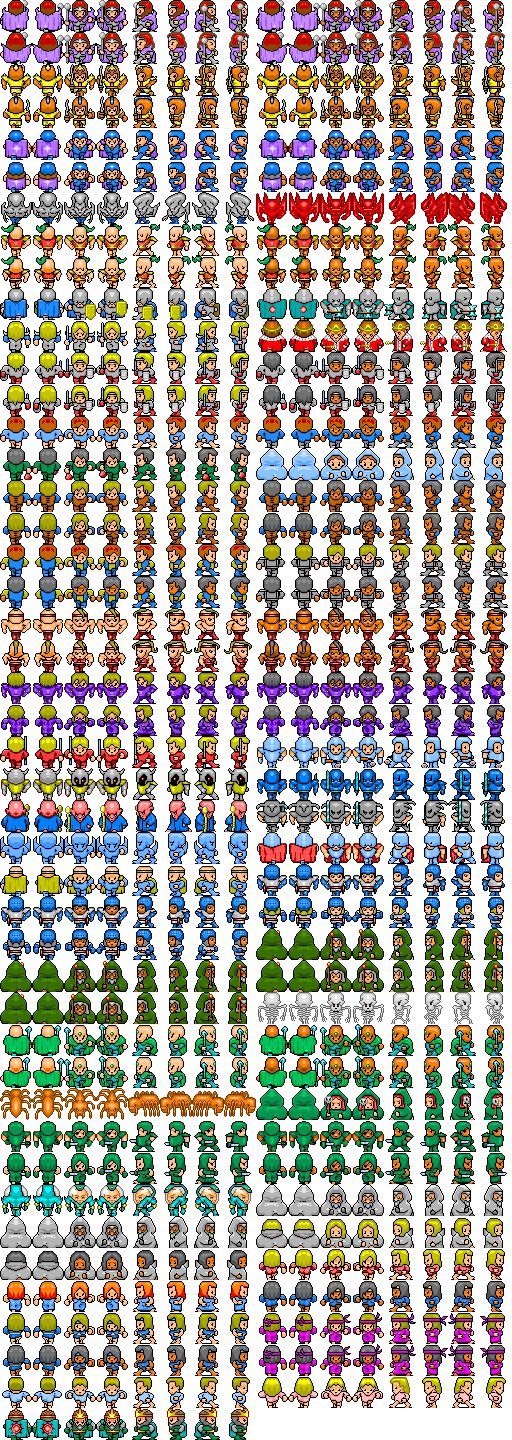
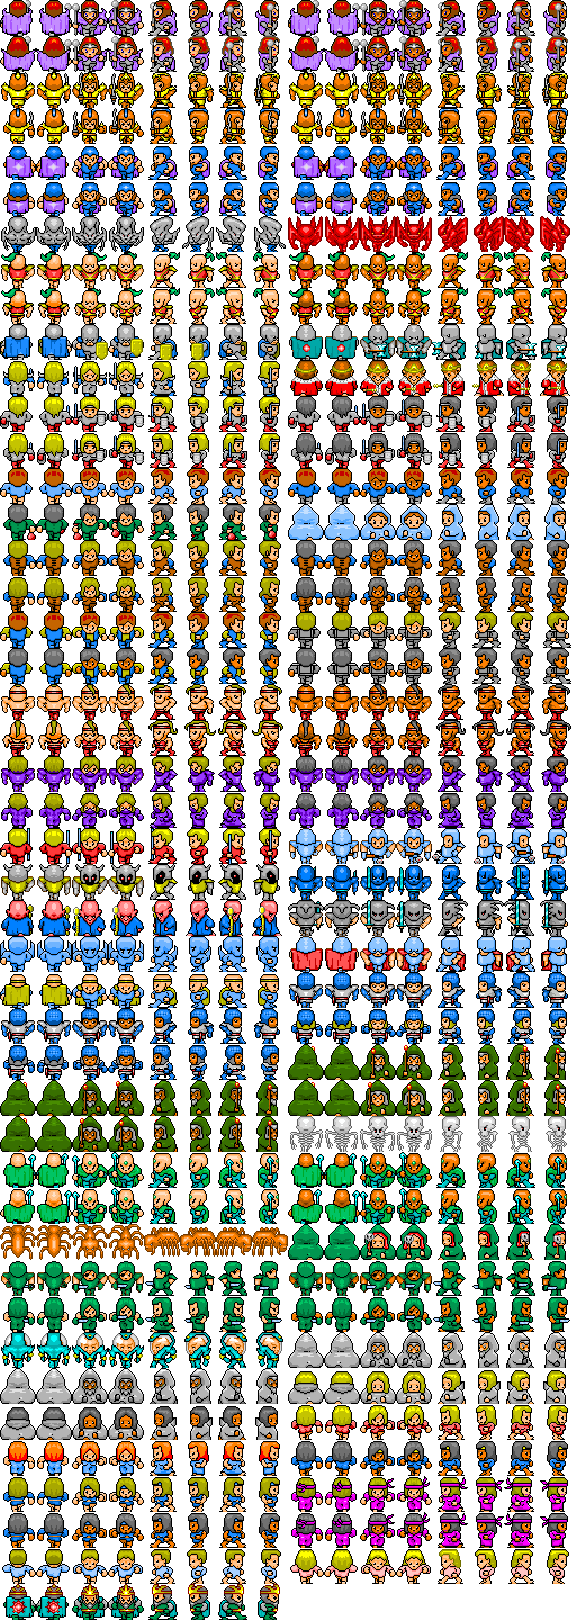
Fully move to bigger sprites

diff --git a/src/Game/Game.ts b/src/Game/Game.ts
@@ -8,7 +8,7 @@ import getRandomInt from './helpers/getRandomInt'
 import Collider from './Collider'
 import Wall from '../textures/Wall'
 import Floor from '../textures/Floor'
-import Level from './Level'
+import Level, { TILE_WIDTH, TILE_HEIGHT } from './Level'
 import stores from '../stores'
 import SkeletonContainer from './containers/SkeletonContainer'
 import WallContainer from './containers/WallContainer'
@@ -42,7 +42,8 @@ class Game {
 
     loader
       .add('spritesheet', './tileset.json')
-      .add('character_spritesheet', './character32.json')
+      .add('character_spritesheet', './character36.json')
+      .add('character_spritesheet2', './character32.json')
       .load(this.afterLoad)
   }
 
@@ -81,18 +82,26 @@ class Game {
 
         const collidable = tileType === 'wall'
 
-        const baseX = i * 64
-        const baseY = j * 64
+        const baseX = i * TILE_WIDTH * 2
+        const baseY = j * TILE_HEIGHT * 2
 
         for (let xOffset = 0; xOffset < 2; xOffset++) {
           for (let yOffset = 0; yOffset < 2; yOffset++) {
             const random = getRandomInt(5) + 1
             if (collidable) {
-              const container = new WallContainer(baseX + xOffset * 32, baseY + yOffset * 32, Wall[`wall${random}`])
+              const container = new WallContainer(
+                baseX + xOffset * TILE_WIDTH,
+                baseY + yOffset * TILE_HEIGHT,
+                Wall[`wall${random}`]
+              )
               stores.gameStateStore.viewport.addChild(container.sprite)
               stores.gameStateStore.cullMask.addObject(container.sprite, true, collidable)
             } else {
-              const container = new FloorContainer(baseX + xOffset * 32, baseY + yOffset * 32, Floor[`floor${random}`])
+              const container = new FloorContainer(
+                baseX + xOffset * TILE_WIDTH,
+                baseY + yOffset * TILE_HEIGHT,
+                Floor[`floor${random}`]
+              )
               stores.gameStateStore.viewport.addChild(container.sprite)
               stores.gameStateStore.cullMask.addObject(container.sprite, true, collidable)
             }
@@ -109,8 +118,8 @@ class Game {
       const tileType = this.level.tileAt({ x, y })
 
       if (tileType === 'floor') {
-        const skeletonX = x * 64 + 32
-        const skeletonY = y * 64 + 32
+        const skeletonX = x * (TILE_WIDTH * 2) + TILE_WIDTH
+        const skeletonY = y * (TILE_HEIGHT * 2) + TILE_HEIGHT
 
         if (!Array.from(stores.gameStateStore.steppables.entries()).find(
           ([item, _]) => item.sprite.x === skeletonX && item.sprite.y === skeletonY)
@@ -154,12 +163,13 @@ class Game {
 
   public afterLoad = () => {
     stores.gameStateStore.viewport = this.buildViewport()
-
     stores.gameStateStore.cullMask = new Cull()
-
     this.buildLevelContainer()
 
-    stores.gameStateStore.char = new CharacterContainer(240, 3020)
+    stores.gameStateStore.viewport.worldWidth = this.level.pixelWidth
+    stores.gameStateStore.viewport.worldHeight = this.level.pixelHeight
+
+    stores.gameStateStore.char = new CharacterContainer(270, 3402)
     stores.gameStateStore.steppables.add(stores.gameStateStore.char)
 
     stores.gameStateStore.viewport.addChild(stores.gameStateStore.char.sprite)

diff --git a/src/textures/Character.ts b/src/textures/Character.ts
@@ -10,19 +10,19 @@ class Character extends TextureCache {
 
   static get cDown() {
     return this._lookup('cDown', () =>
-      this._characterFrames(this._rowOffset + 1, this._colOffset + 3)
+      this._characterFrames(this._rowOffset + 3, this._colOffset + 1)
     )
   }
 
   static get cLeft() {
     return this._lookup('cLeft', () =>
-      this._characterFrames(this._rowOffset + 1, this._colOffset + 5)
+      this._characterFrames(this._rowOffset + 4, this._colOffset + 1)
     )
   }
 
   static get cRight() {
     return this._lookup('cRight', () =>
-      this._characterFrames(this._rowOffset + 1, this._colOffset + 7)
+      this._characterFrames(this._rowOffset + 2, this._colOffset + 1)
     )
   }
 
@@ -31,11 +31,11 @@ class Character extends TextureCache {
   public static _characterFrames = (
     row: number,
     keyframe: number,
-    keyframes: number = 2
+    keyframes: number = 3
   ) => {
     const frames = []
     for (let i = 0; i < keyframes; i++) {
-      frames.push(Texture.from(`c_r${row}c${i + keyframe}.png`))
+      frames.push(Texture.from(`q_r${row}c${i + keyframe}.png`))
     }
     return frames
   }

diff --git a/src/game/containers/SkeletonContainer.ts b/src/game/containers/SkeletonContainer.ts
@@ -8,6 +8,7 @@ import { AnimatableContainer } from './AnimatableContainer'
 import TextureCache from '../../textures/TextureCache'
 import withHp, { IWithHp } from '../decorators/withHp'
 import withLighting from '../decorators/withLighting'
+import { TILE_WIDTH, TILE_HEIGHT } from '../Level';
 
 @withLighting(true)
 @withHp(10)
@@ -17,7 +18,7 @@ class SkeletonContainer extends AnimatableContainer {
 
   constructor(x: number, y: number) {
     super(x, y, 1)
-    this.sprite.hitArea = new PIXI.Rectangle(0, 0, 32, 32)
+    this.sprite.hitArea = new PIXI.Rectangle(0, 0, TILE_WIDTH, TILE_HEIGHT)
   }
 
   public step(delta: number, collider: Collider): PIXI.DisplayObject[] {

diff --git a/src/game/decorators/withHp.ts b/src/game/decorators/withHp.ts
@@ -1,4 +1,5 @@
 import Collider from '../Collider'
+import { TILE_WIDTH } from '../Level';
 
 const YELLOW = 0xFFFF00
 const GREEN = 0x00FF00
@@ -57,7 +58,7 @@ export default function withHp(maxHp: number) {
 
         this.healthBar.clear()
         this.healthBar.beginFill(color)
-        this.healthBar.drawRect(0, 0, Math.ceil(this.hp / this.maxHp * 32), 2)
+        this.healthBar.drawRect(0, 0, Math.ceil(this.hp / this.maxHp * TILE_WIDTH), 2)
         this.healthBar.x = -16
         this.healthBar.y = 18
       }

diff --git a/src/Game/Level.ts b/src/Game/Level.ts
@@ -2,8 +2,8 @@
 
 import { IPoint } from './types'
 
-const TILE_WIDTH = 32
-const TILE_HEIGHT = 32
+export const TILE_WIDTH = 36
+export const TILE_HEIGHT = 36
 
 // TODO: Move maze generation out of Level
 // TODO: Ensure mazes look less "algorithmic" (wall erosion)

diff --git a/main.ts b/main.ts
@@ -21,7 +21,7 @@ app.on('ready', async () => {
 
   mainWindow.once('ready-to-show', () => {
     mainWindow.show()
-    // mainWindow.webContents.openDevTools()
+    mainWindow.webContents.openDevTools()
   })
 
   const devPath = 'http://localhost:1124'
